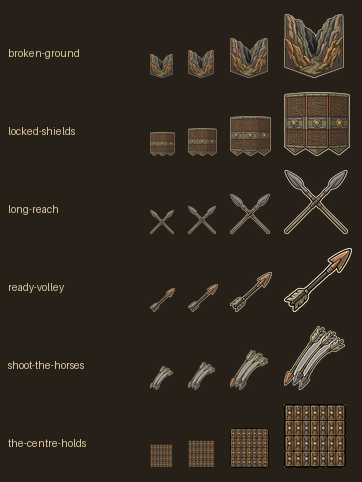
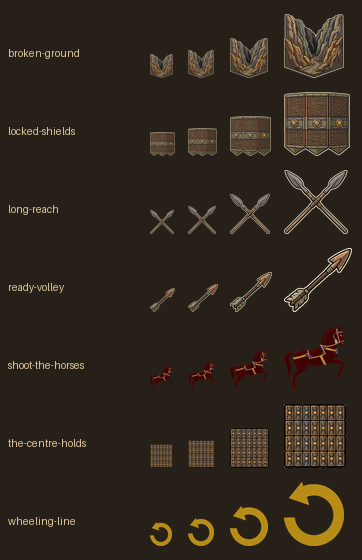
Shoot the Horses finally has a horse in it
The regenerated emblem reads as a red horse at 24px where Ready Volley reads as
an arrow, so the two cards stop being the same picture. All seven prepared
emblems now separate in the contact sheet's 24px column.

Rejected two: the-centre-holds came back as a bar of chocolate, and loosed-rein
as a bordered ground tile that fills its own frame — the cut-out floods inward
from the corners and has nothing to work with. Both reverted rather than left in
art-in for a later pass to pick up.

wheeling-line is in but is flat-vector where the rest are painted. Also, the
cut-out dropped its shields: keep_largest_shape keeps one component, and any
emblem assembled from separate pieces loses all but the biggest.

diff --git a/persia-wars-game/DECISIONS.md b/persia-wars-game/DECISIONS.md
@@ -959,3 +959,41 @@ placeholder shapes — visibly different from the finished six, which is the
 point of the per-card fallback.
 
 Art tally: 6 of 8 cards, 4 of 25 units. 61 of 71 pieces outstanding.
+
+## The horse arrives; a chocolate bar is turned away
+
+Second card batch. `shoot-the-horses` came back correct — a riderless oxblood
+horse rearing, three gold arrows arcing in — and at 24px it is now a red horse
+where `ready-volley` is a thin arrow. The collision that made the two cards the
+same picture is gone, which was the only art fault so far that changed how the
+game plays. Contact sheet re-run: all seven prepared emblems are distinguishable
+in the 24px column.
+
+Two of the four were rejected rather than shipped:
+
+**`the-centre-holds` regenerated as a bar of chocolate.** Dark brown rectangular
+segments in a grid, gold-edged, on a cream wrapper. The version already in the
+game was weak — a uniform grid that loses the firm-centre idea — but weak and
+neutral beats strong and wrong, so the old file stays and the new one was
+reverted out of `art-in/` rather than left lying around to be picked up by a
+later pass.
+
+**`loosed-rein` came back as a bordered square ground tile of hoofprints.** It
+fills its own frame edge to edge, which the cut-out cannot process — the flood
+fill works inward from the corners and there is nothing to flood. It would also
+read as a brown square at 24px, and it says "tracks" rather than "shoot while
+falling back". Deleted; the card keeps its placeholder shape.
+
+`wheeling-line` is in but is a **style outlier**: flat vector, the look of a
+corporate logo, with none of the gouache texture the other six share. It was
+taken because a legible outlier beats a placeholder and because at 24px style
+barely registers — but it should be redone in the painted style.
+
+One side effect worth recording: the emblem was drawn as a gold hook wrapping a
+cluster of shields, and `keep_largest_shape` dropped the shields, because they
+are a disconnected component. The surviving hook alone actually reads better —
+"goes around and comes back" is the mechanic — so this was left. But it is a
+reminder that the tool keeps ONE shape, and any emblem built from separate
+pieces will lose all but the biggest.
+
+Art tally: 7 of 8 cards, 4 of 25 units. 60 of 71 pieces outstanding.
